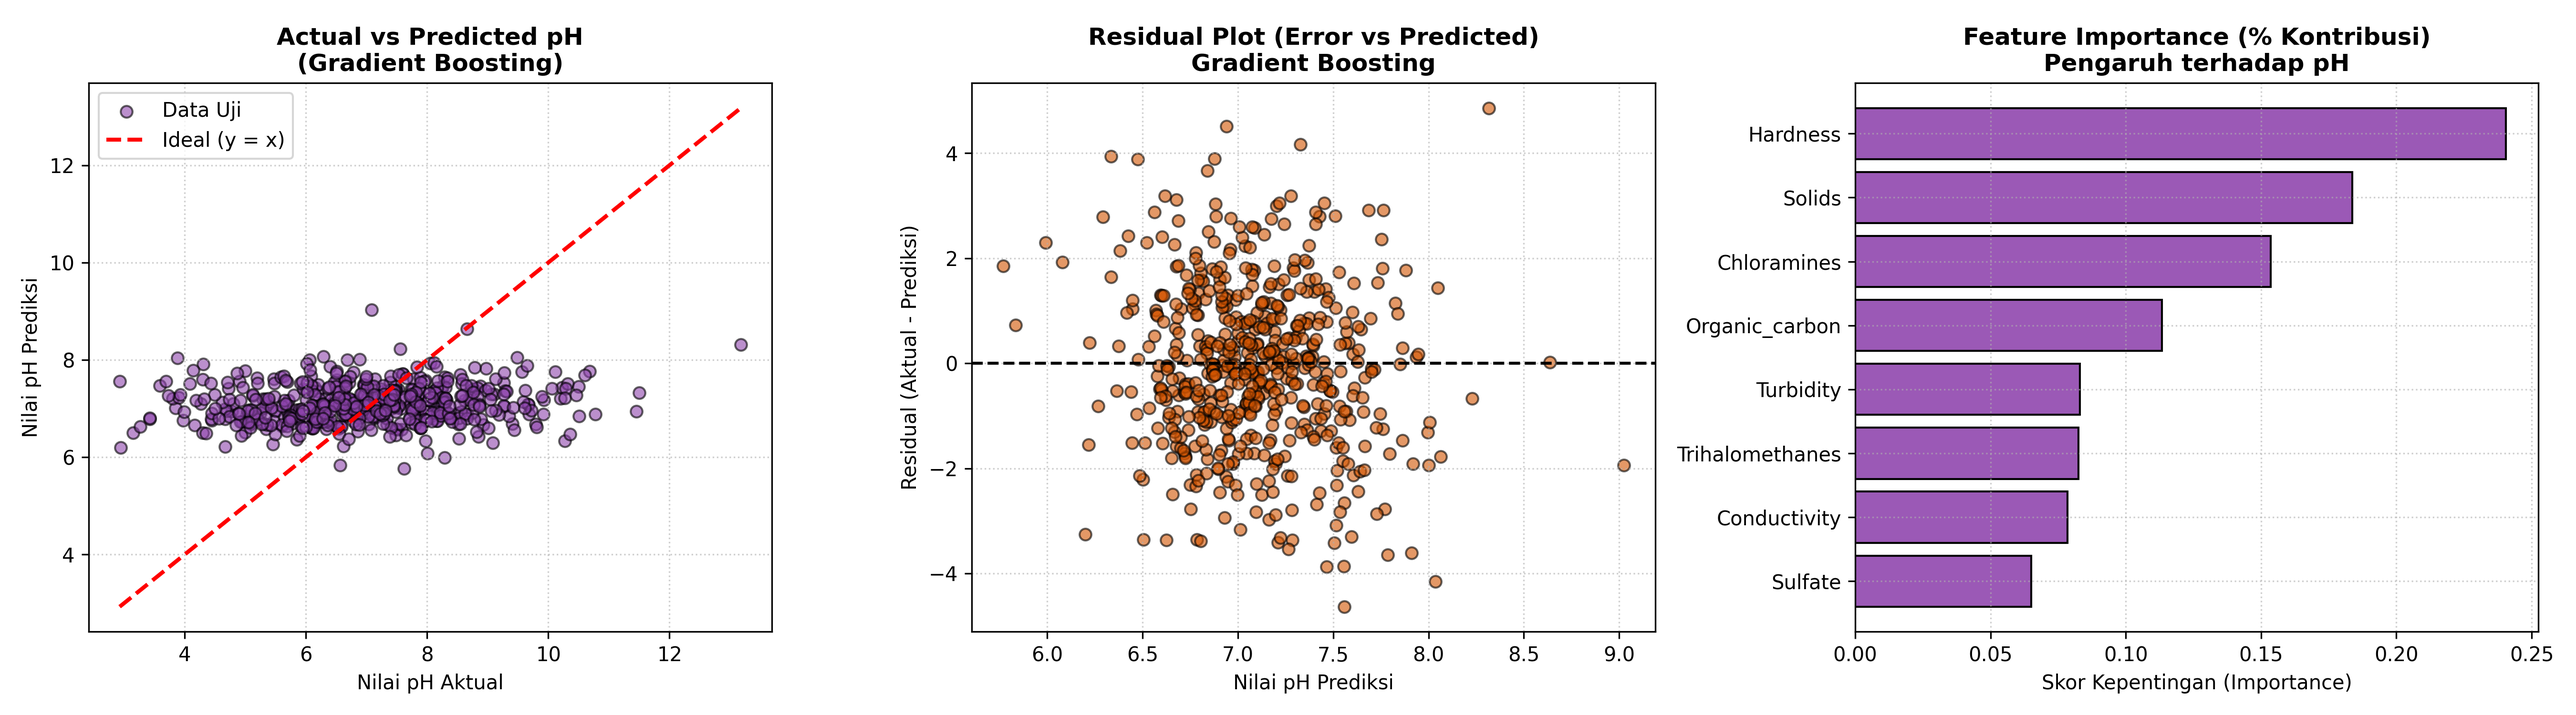
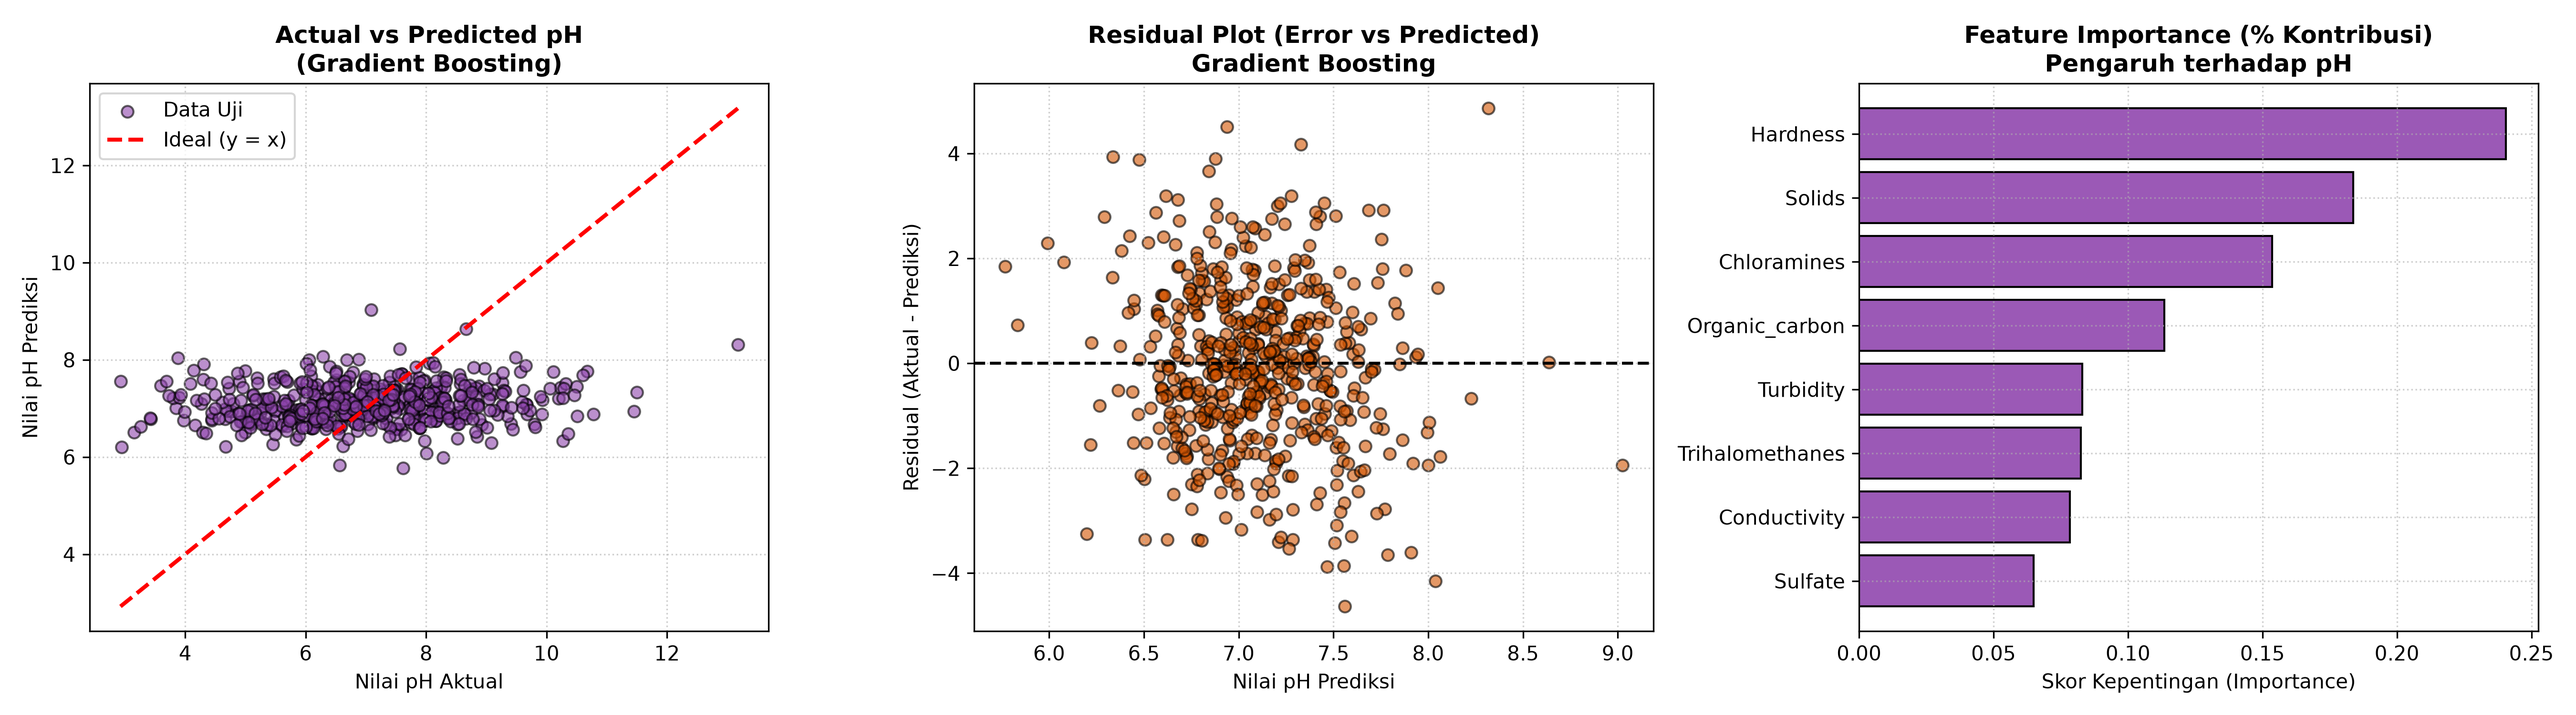
Modul regresi tm 11

diff --git a/Pertemuan11_Regresi/gradient_boosting_pipeline.py b/Pertemuan11_Regresi/gradient_boosting_pipeline.py
@@ -6,15 +6,7 @@ import matplotlib.pyplot as plt
 from sklearn.ensemble import GradientBoostingRegressor
 from sklearn.metrics import mean_absolute_error, mean_squared_error, r2_score
 
-# Import fungsi preprocessing dari modul Adel
 from preprocessing_regresi import load_and_preprocess_regression
-
-# ==============================================================================
-# TUGAS PERTEMUAN 11 - ANALISIS REGRESI KUALITAS AIR
-# Kelompok 3 (Machine Learning)
-# Bagian: Pipeline Model Ensemble Boosting (Gradient Boosting Regressor)
-# Penanggung Jawab: Juanne
-# ==============================================================================
 
 def train_and_evaluate_gradient_boosting(save_plot=True, export_model=True):
     """
@@ -27,15 +19,8 @@ def train_and_evaluate_gradient_boosting(save_plot=True, export_model=True):
       y_pred (np.ndarray): Hasil prediksi nilai pH pada data uji.
       feature_importance_df (pd.DataFrame): Kontribusi tiap fitur terhadap prediksi.
     """
-    print("=" * 65)
-    print(" PIPELINE ENSEMBLE BOOSTING: GRADIENT BOOSTING REGRESSOR ")
-    print(" Penanggung Jawab: Juanne")
-    print("=" * 65)
-
-    # 1. Ambil data yang telah dipreprocessing
     X_train, X_test, y_train, y_test = load_and_preprocess_regression(scale_features=True)
 
-    # 2. Inisialisasi dan Latih Model Gradient Boosting Regressor
     print("\n[1] Melatih Model Gradient Boosting Regressor...")
     model = GradientBoostingRegressor(
         n_estimators=100,
@@ -46,11 +31,9 @@ def train_and_evaluate_gradient_boosting(save_plot=True, export_model=True):
     model.fit(X_train, y_train)
     print("    -> Pelatihan model selesai (Sequential Boosting 100 Trees).")
 
-    # 3. Prediksi pada Data Uji (Testing Set)
     print("\n[2] Melakukan Prediksi pada Data Uji (Testing Set)...")
     y_pred = model.predict(X_test)
 
-    # 4. Hitung 5 Metrik Evaluasi Wajib (Modul TM 11)
     mae = mean_absolute_error(y_test, y_pred)
     mse = mean_squared_error(y_test, y_pred)
     rmse = np.sqrt(mse)
@@ -75,7 +58,6 @@ def train_and_evaluate_gradient_boosting(save_plot=True, export_model=True):
     print(f" 5. R-Squared Score (R2)             : {r2:.4f}")
     print("=" * 50)
 
-    # 5. Analisis Feature Importance
     importances = model.feature_importances_
     feature_importance_df = pd.DataFrame({
         "Fitur": X_train.columns,
@@ -86,21 +68,12 @@ def train_and_evaluate_gradient_boosting(save_plot=True, export_model=True):
     for _, row in feature_importance_df.iterrows():
         print(f"    - {row['Fitur']:18s}: {row['Importance']*100:6.2f}%")
 
-    # 6. Analisis Karakteristik Gradient Boosting
-    print("\n[4] Analisis Karakteristik Boosting (Untuk Bab II Laporan):")
-    print("    - Gradient Boosting membangun model secara sekuensial (berurutan),")
-    print("      di mana setiap pohon baru berfokus meminimalkan residu error pohon sebelumnya.")
-    print(f"    - Model ini menghasilkan MAE {mae:.4f} dan RMSE {rmse:.4f},")
-    print("      menunjukkan performa prediksi error yang cukup stabil.")
-
-    # 7. Ekspor Model ke File .joblib
     base_dir = os.path.dirname(os.path.abspath(__file__))
     if export_model:
         model_path = os.path.join(base_dir, "model_gradient_boosting.joblib")
         joblib.dump(model, model_path)
-        print(f"\n[5] Model Gradient Boosting diekspor ke: {model_path}")
+        print(f"\n[4] Model Gradient Boosting diekspor ke: {model_path}")
 
-    # 8. Visualisasi Hasil Evaluasi
     if save_plot:
         output_dir = os.path.join(base_dir, "visualisasi")
         os.makedirs(output_dir, exist_ok=True)
@@ -138,7 +111,7 @@ def train_and_evaluate_gradient_boosting(save_plot=True, export_model=True):
         plt.tight_layout()
         plt.savefig(plot_path, dpi=300)
         plt.close()
-        print(f"[6] Visualisasi evaluasi disimpan di: {plot_path}")
+        print(f"[5] Visualisasi evaluasi disimpan di: {plot_path}")
 
     print("\n" + "=" * 65)
     print(" [SELESAI] Pipeline Gradient Boosting Selesai Dijalankan! ")

diff --git a/Pertemuan11_Regresi/random_forest_pipeline.py b/Pertemuan11_Regresi/random_forest_pipeline.py
@@ -6,15 +6,7 @@ import matplotlib.pyplot as plt
 from sklearn.ensemble import RandomForestRegressor
 from sklearn.metrics import mean_absolute_error, mean_squared_error, r2_score
 
-# Import fungsi preprocessing dari modul Adel
 from preprocessing_regresi import load_and_preprocess_regression
-
-# ==============================================================================
-# TUGAS PERTEMUAN 11 - ANALISIS REGRESI KUALITAS AIR
-# Kelompok 3 (Machine Learning)
-# Bagian: Pipeline Model Juara (Random Forest Regressor) & Evaluasi 5 Metrik
-# Penanggung Jawab: Juanne
-# ==============================================================================
 
 def train_and_evaluate_random_forest(save_plot=True, export_model=True):
     """
@@ -27,11 +19,6 @@ def train_and_evaluate_random_forest(save_plot=True, export_model=True):
       y_pred (np.ndarray): Hasil prediksi nilai pH pada data uji.
       feature_importance_df (pd.DataFrame): Kontribusi tiap fitur terhadap prediksi.
     """
-    print("=" * 65)
-    print(" PIPELINE MODEL JUARA: RANDOM FOREST REGRESSOR (PREDIKSI pH) ")
-    print(" Penanggung Jawab: Juanne")
-    print("=" * 65)
-
     # 1. Ambil data yang telah dipreprocessing
     X_train, X_test, y_train, y_test = load_and_preprocess_regression(scale_features=True)
 
@@ -87,24 +74,14 @@ def train_and_evaluate_random_forest(save_plot=True, export_model=True):
     for _, row in feature_importance_df.iterrows():
         print(f"    - {row['Fitur']:18s}: {row['Importance']*100:6.2f}%")
 
-    # 6. Analisis Hasil untuk Pembahasan Laporan (Bab II Juanne)
-    print("\n[4] Analisis Keunggulan Random Forest (Untuk Bab II Laporan):")
-    print(f"    - Random Forest menghasilkan RMSE terendah ({rmse:.4f})")
-    print(f"      dan R2 bernilai positif ({r2:.4f}).")
-    print("    - Berkat teknik Ensemble Bagging (menggabungkan 100 pohon secara paralel),")
-    print("      model ini sangat kebal terhadap noise dan outlier pada parameter air.")
-    print(f"    - Fitur paling berpengaruh dalam memprediksi pH adalah:")
-    print(f"      '{feature_importance_df.iloc[0]['Fitur']}' ({feature_importance_df.iloc[0]['Importance']*100:.2f}%)")
-    print(f"      dan '{feature_importance_df.iloc[1]['Fitur']}' ({feature_importance_df.iloc[1]['Importance']*100:.2f}%).")
-
-    # 7. Ekspor Model ke File .joblib untuk Digunakan di UI/UX Streamlit
+    # 6. Ekspor Model ke File .joblib untuk Digunakan di UI/UX Streamlit
     base_dir = os.path.dirname(os.path.abspath(__file__))
     if export_model:
         model_path = os.path.join(base_dir, "model_random_forest.joblib")
         joblib.dump(model, model_path)
         print(f"\n[5] Model terbaik berhasil diekspor ke: {model_path}")
 
-    # 8. Visualisasi Hasil Evaluasi
+    # 7. Visualisasi Hasil Evaluasi
     if save_plot:
         output_dir = os.path.join(base_dir, "visualisasi")
         os.makedirs(output_dir, exist_ok=True)

diff --git a/Pertemuan11_Regresi/compare_regression.py b/Pertemuan11_Regresi/compare_regression.py
@@ -9,23 +9,12 @@ from sklearn.metrics import mean_absolute_error, mean_squared_error, r2_score
 
 from preprocessing_regresi import load_and_preprocess_regression
 
-# ==============================================================================
-# TUGAS PERTEMUAN 11 - ANALISIS REGRESI KUALITAS AIR
-# Kelompok 3 (Machine Learning)
-# Bagian: Komparasi Menyeluruh 3 Model Regresi & Penentuan Model Terbaik
-# Penanggung Jawab: Juanne
-# ==============================================================================
-
 def run_regression_comparison(save_visualizations=True, export_best=True):
     """
     Melatih 3 model regresi secara head-to-head, membandingkan 5 metrik evaluasi,
     menyimpan rekap perbandingan ke CSV, dan menghasilkan visualisasi komparatif.
     """
-    print("=" * 70)
-    print(" KOMPARASI MENYELURUH 3 MODEL REGRESI PREDIKSI pH (KELOMPOK 3) ")
-    print(" Penanggung Jawab: Juanne")
-    print("=" * 70)
-
+    
     # 1. Load data & ambil scaler
     X_train, X_test, y_train, y_test, scaler = load_and_preprocess_regression(
         scale_features=True, return_scaler=True
@@ -85,7 +74,6 @@ def run_regression_comparison(save_visualizations=True, export_best=True):
     print(f"\n[2] Tabel komparasi disimpan ke CSV: {csv_path}")
 
     # 5. Tentukan Model Terbaik (Juara)
-    # Model terbaik dipilih berdasarkan RMSE terendah & R2 tertinggi
     best_row = df_results.sort_values(by=["RMSE", "R2 Score"], ascending=[True, False]).iloc[0]
     best_model_name = best_row["Model"]
     best_model = trained_models[best_model_name]
